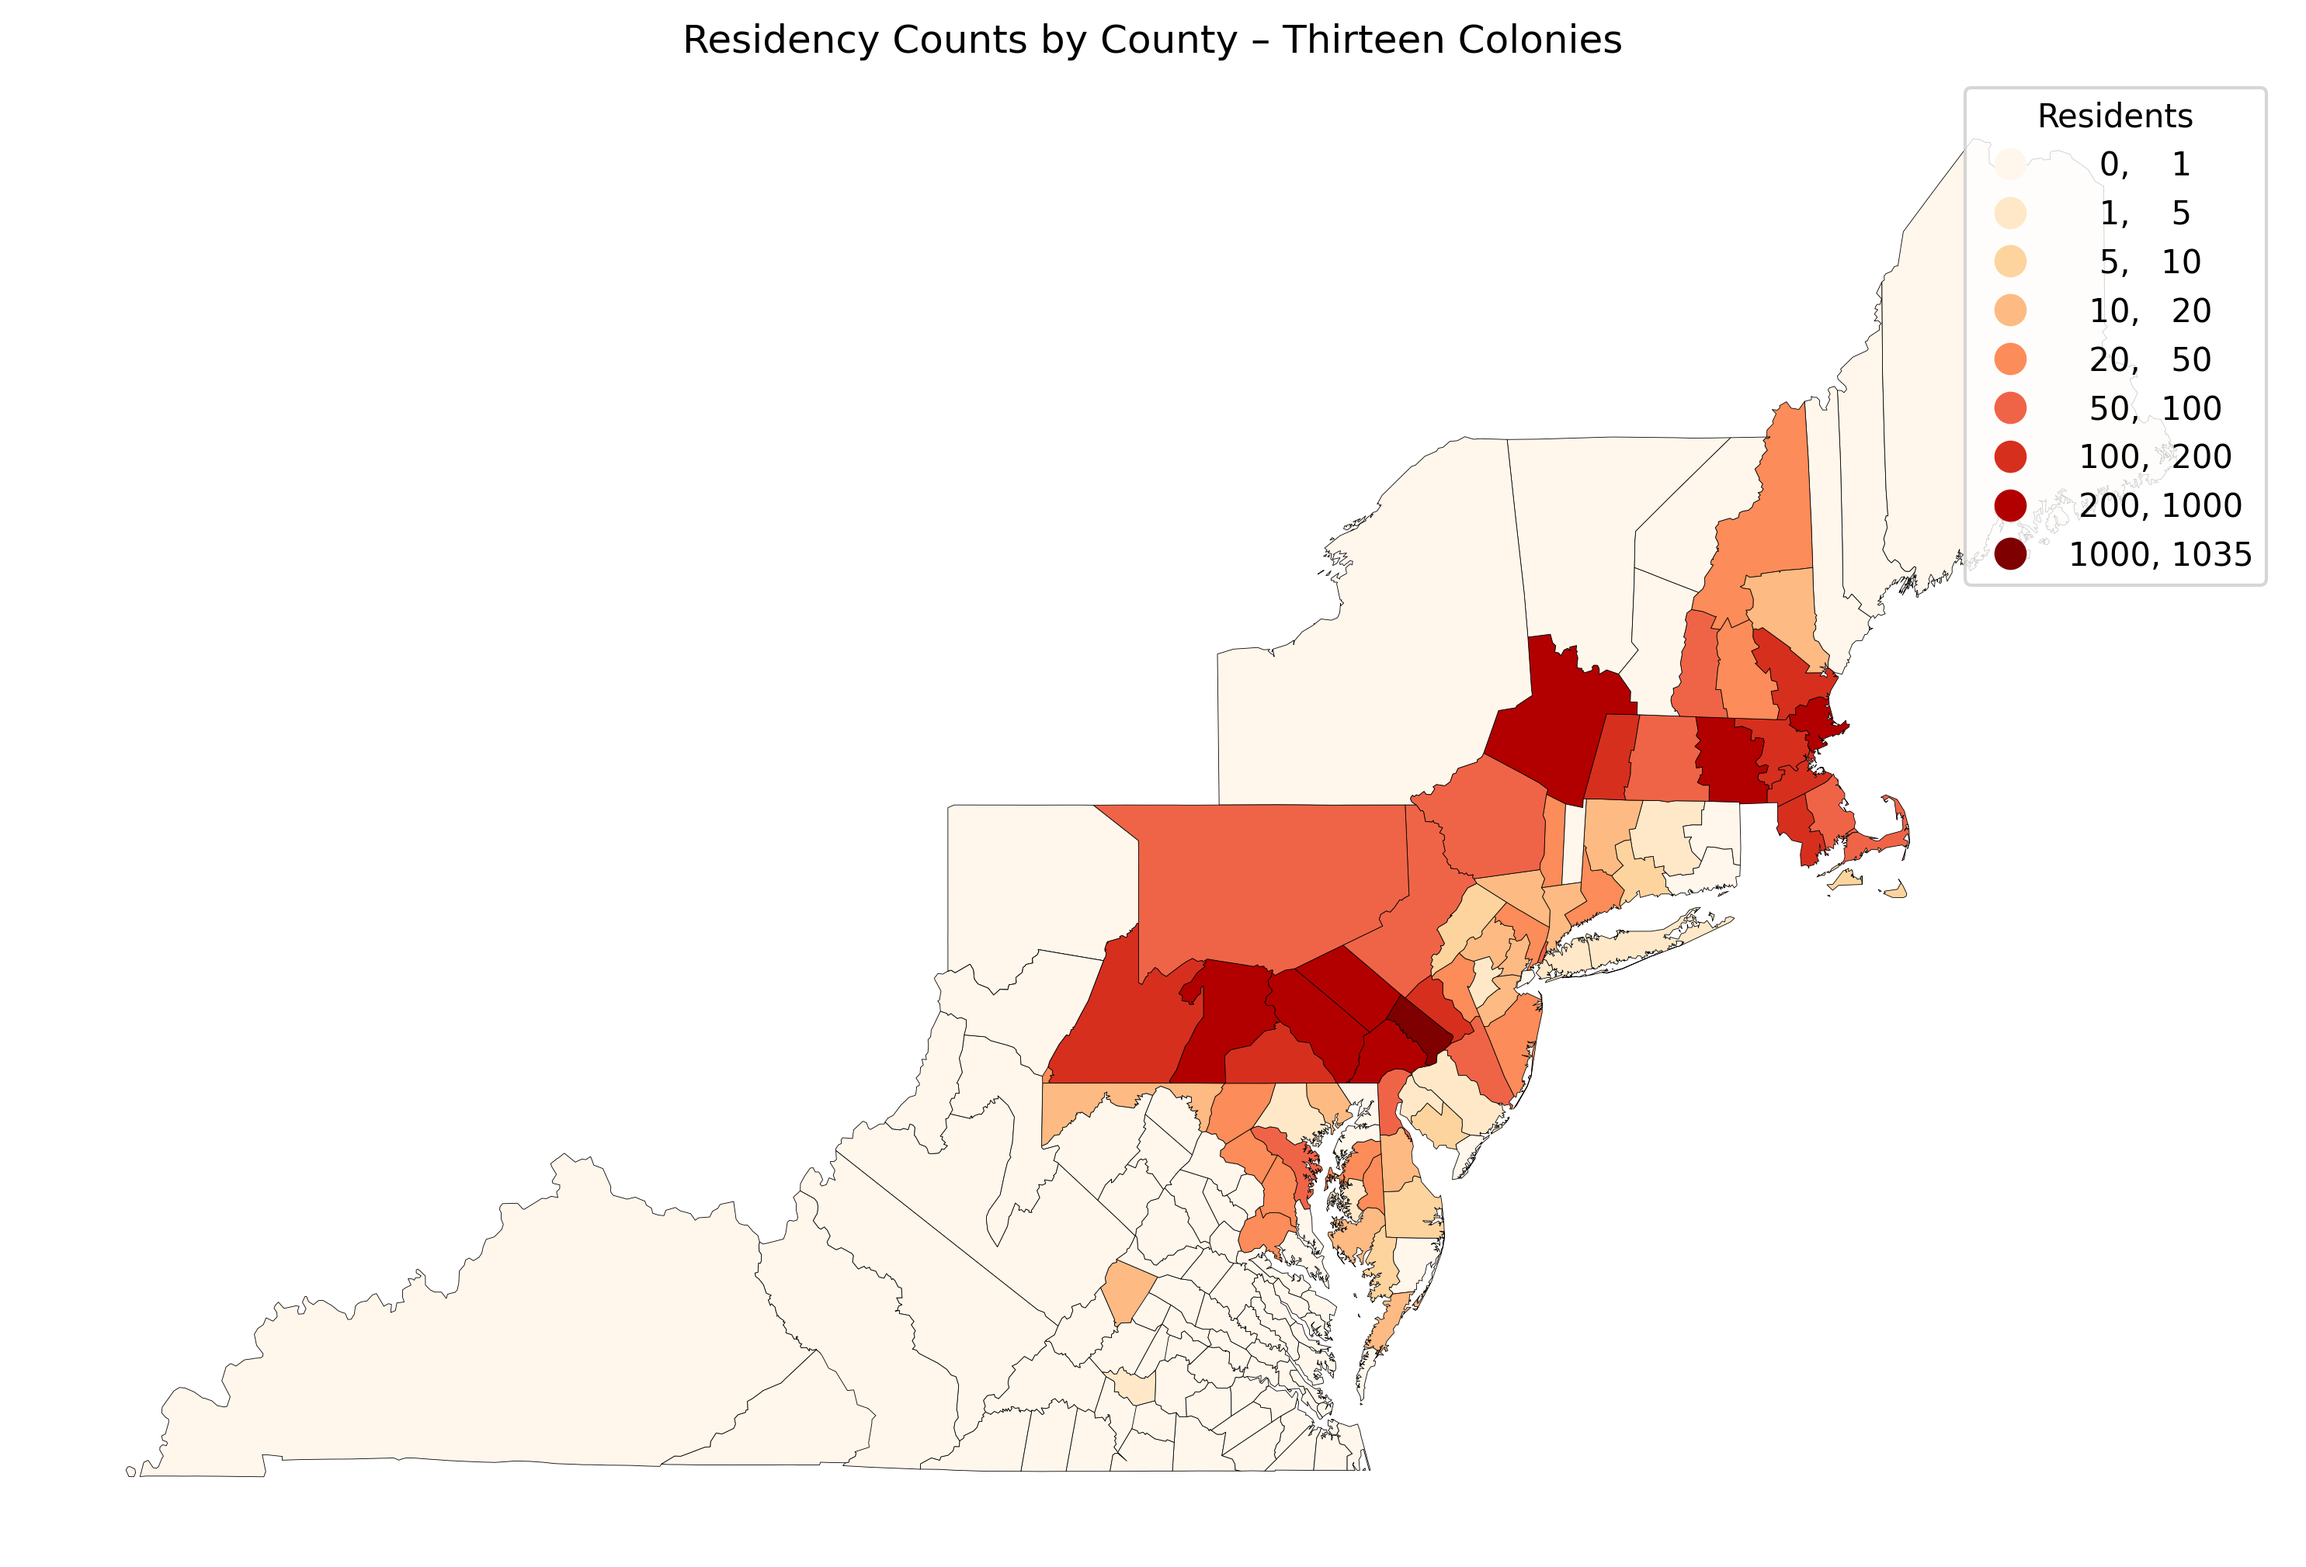
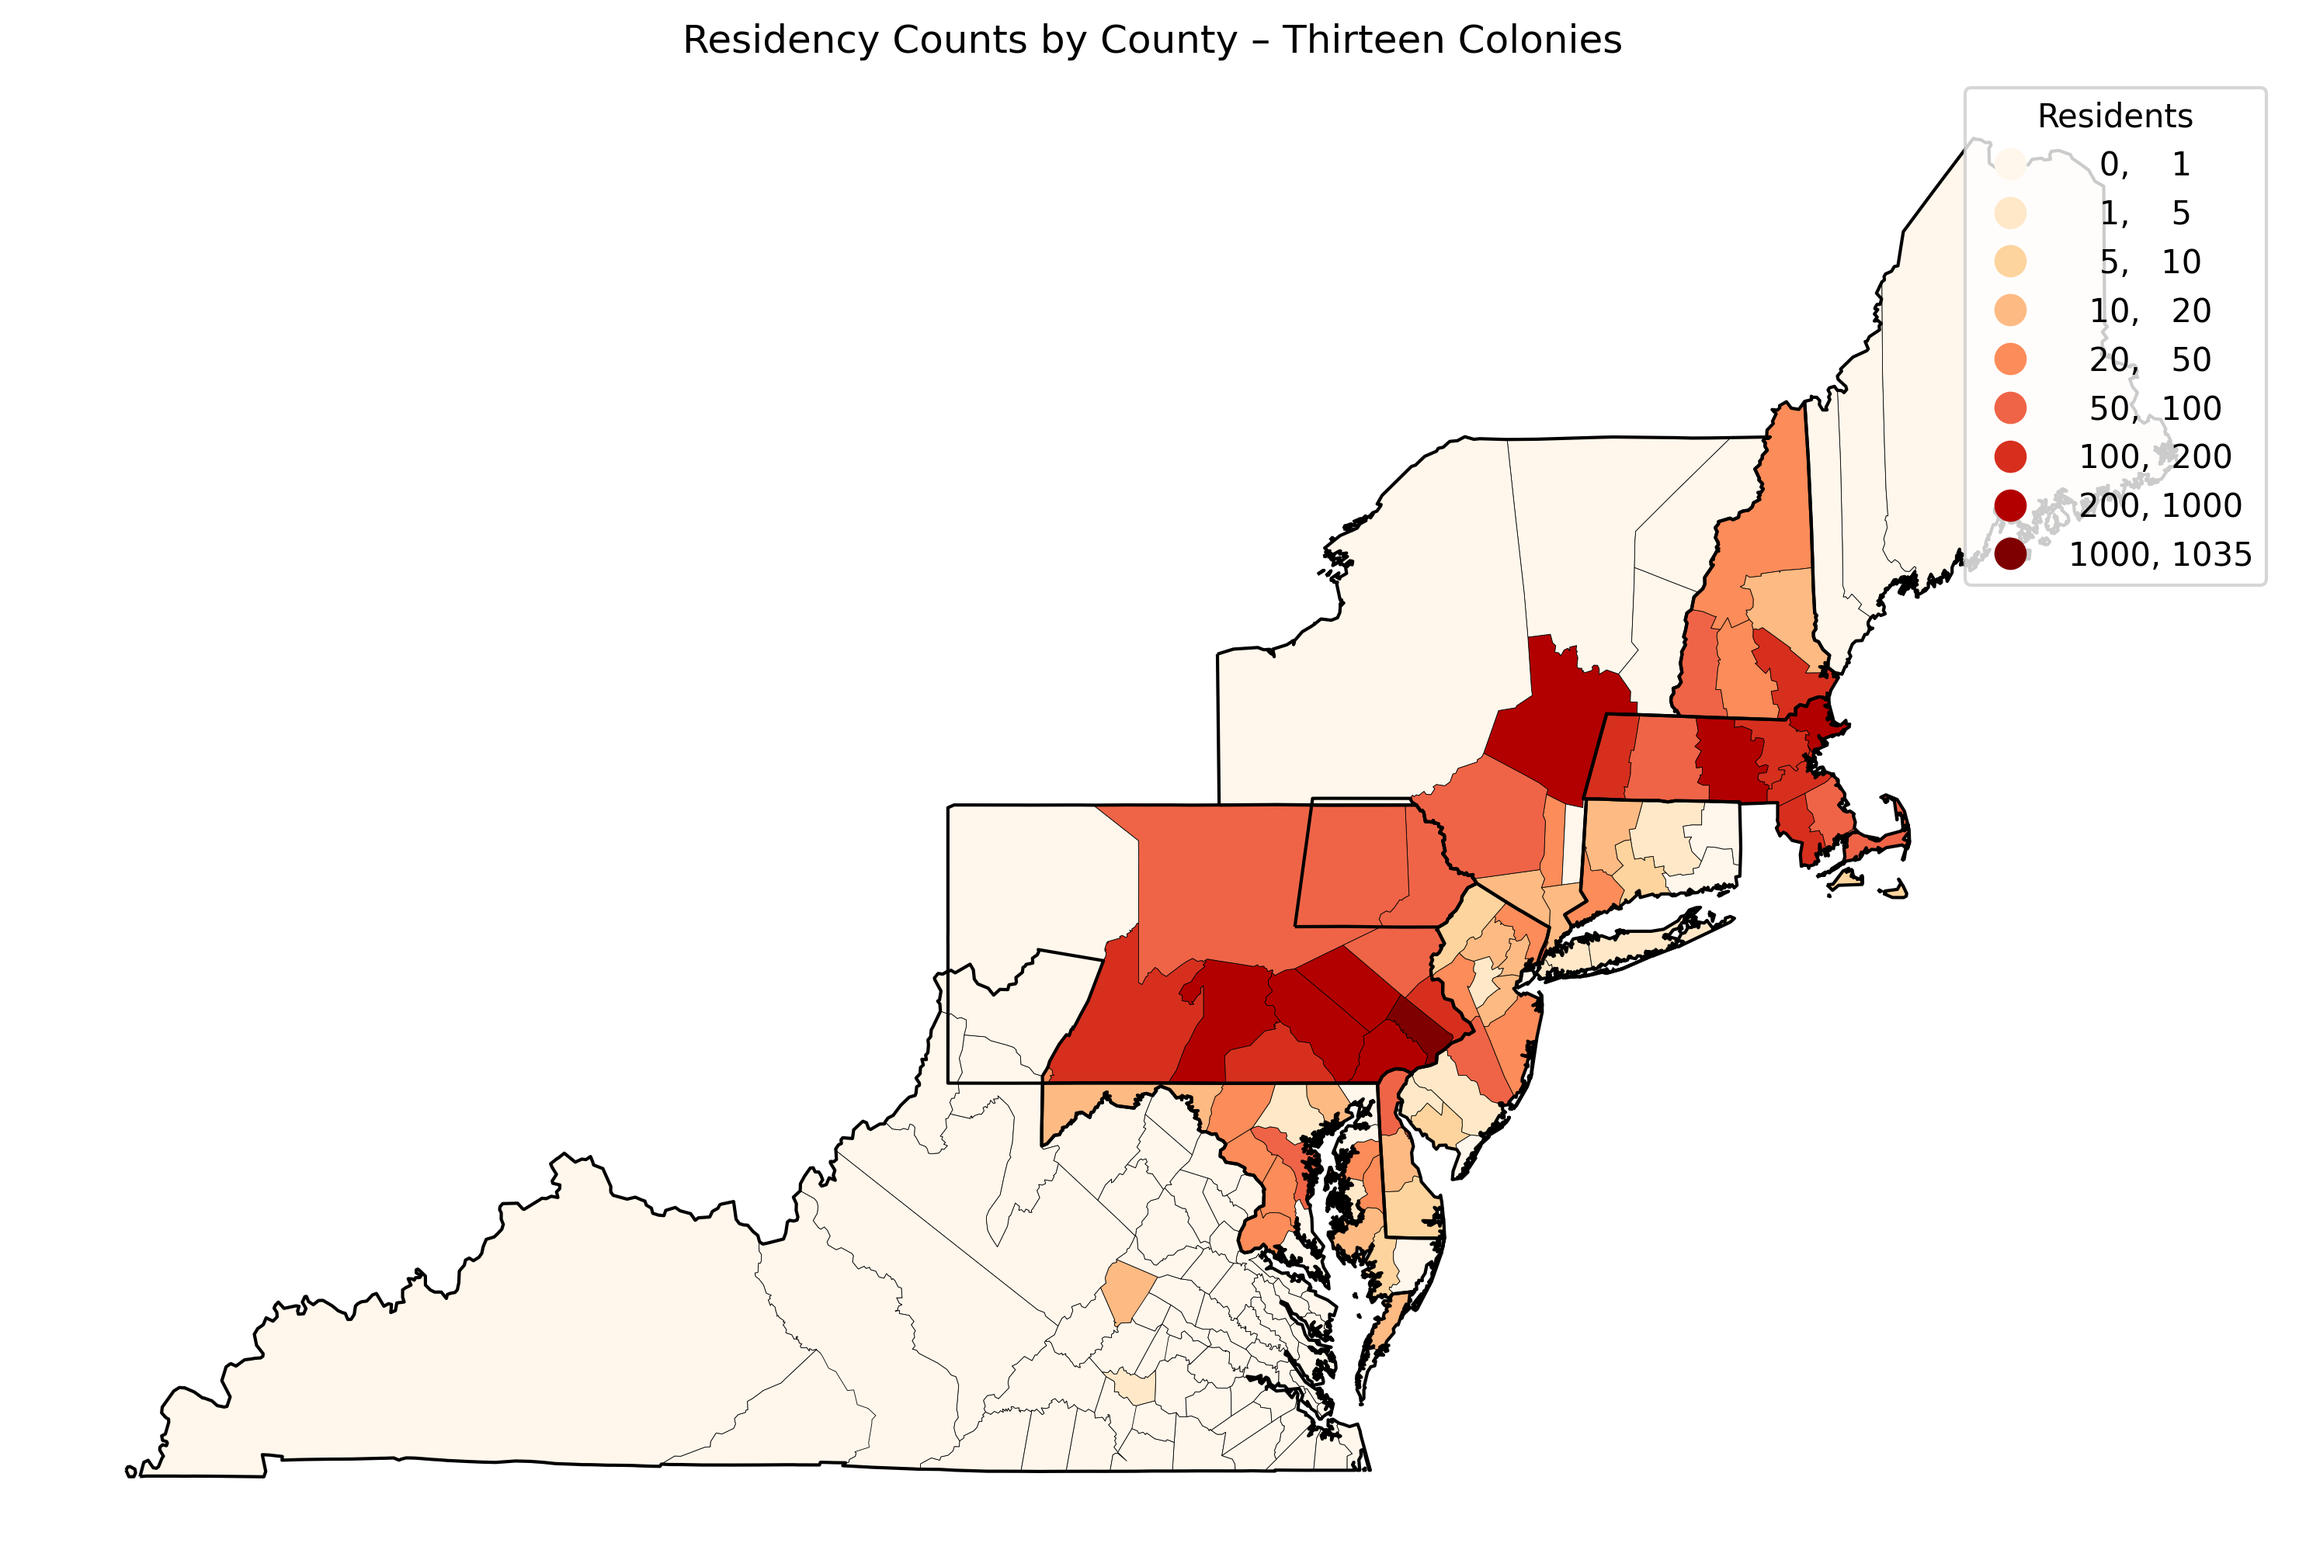
added state boundaries

diff --git a/open_refine/ancestry_scraper/analyze_results.py b/open_refine/ancestry_scraper/analyze_results.py
@@ -315,6 +315,17 @@ def plot_national_choropleth(
         linewidth=0.2,
         legend_kwds={"fmt": "{:.0f}", "title": "Residents"}
     )
+
+    sub_states = sub.copy() # use filtered data
+    # if you normalized STATE_TERR earlier, make sure it’s consistent:
+    sub_states["STATE_TERR"] = sub_states["STATE_TERR"].astype(str).str.upper().str.strip()
+
+    # dissolve to one geometry per state (still only the colonies in your filter)
+    sub_states = sub_states.dissolve(by="STATE_TERR", as_index=False)
+
+    # plot just the boundaries on top
+    sub_states.boundary.plot(ax=ax, color="black", linewidth=1.0)
+
     ax.set_title("Residency Counts by County – Thirteen Colonies", fontsize=12)
     ax.set_axis_off()
     plt.tight_layout()
